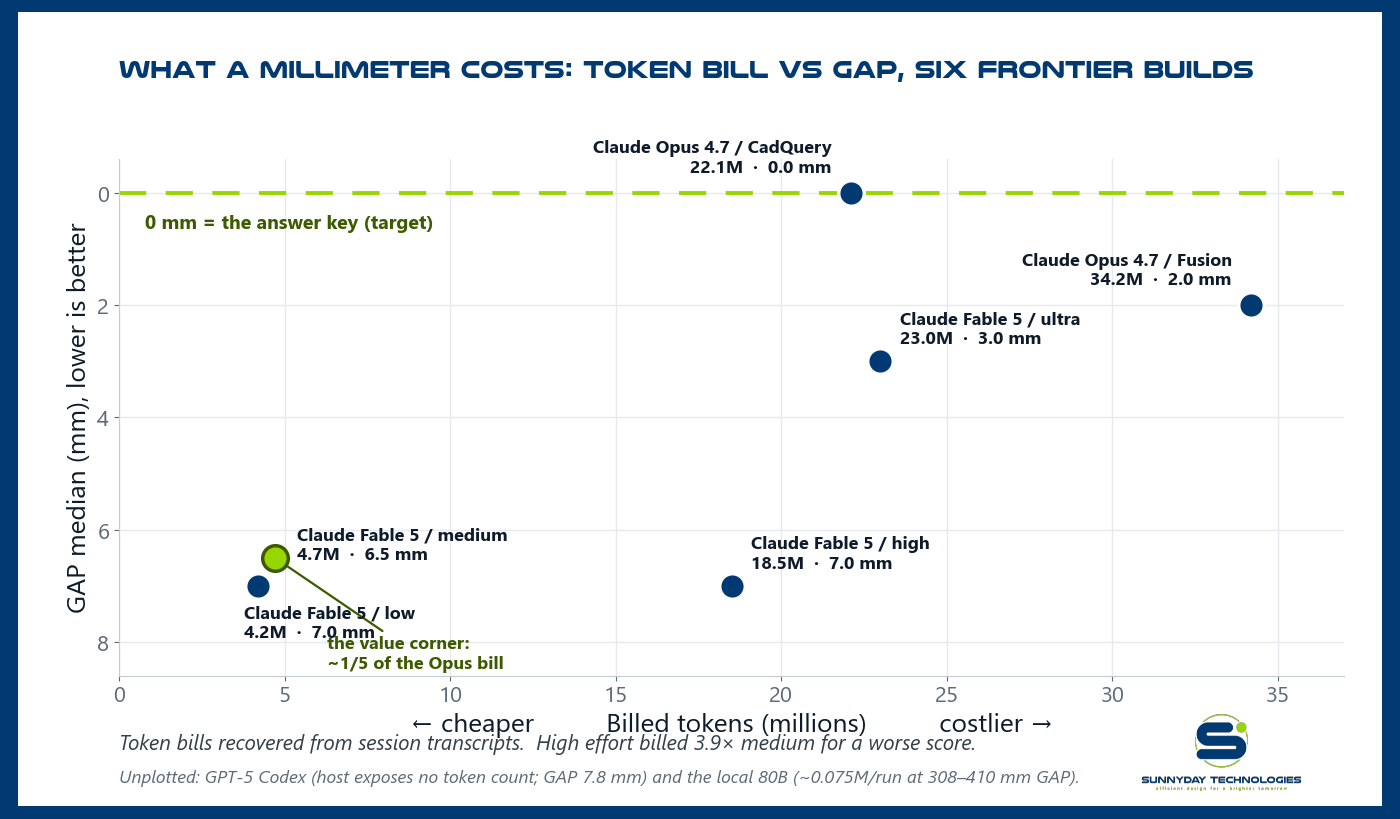
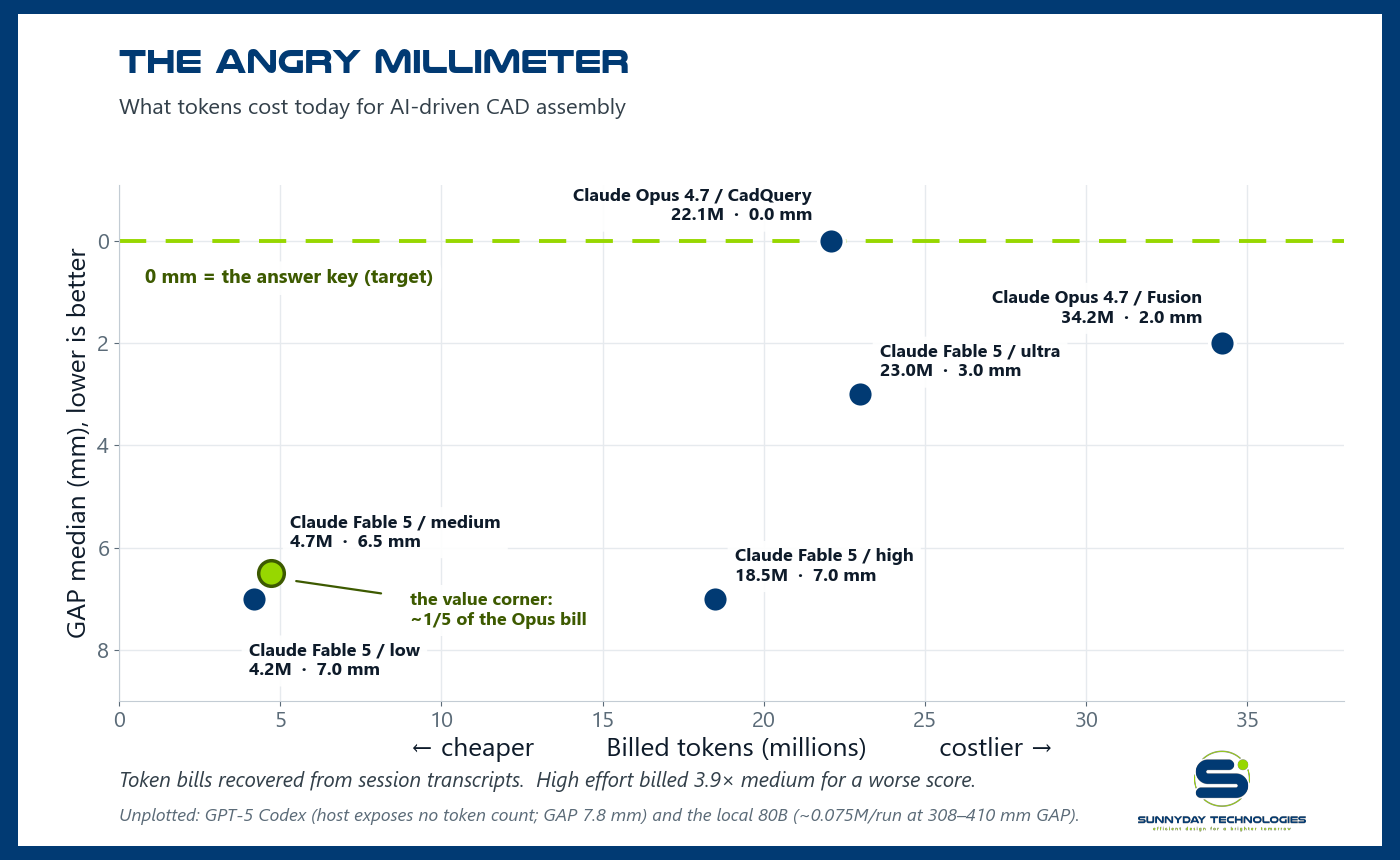
figures: The Angry Millimeter title + LABEL_BBOX legibility standard
brand_figs gains LABEL_BBOX: every in-chart label gets a padded white
backing box so text never collides with gridlines, target lines, or
neighboring marks. Applied to the token-efficiency hero (retitled 'The
Angry Millimeter — what tokens cost today for AI-driven CAD assembly')
and the 7-build scatter; label nudges so nothing clips at the axes.

diff --git a/grader/build_marb_token_efficiency.py b/grader/build_marb_token_efficiency.py
@@ -12,7 +12,7 @@ from matplotlib.patches import Rectangle as _Rect
 
 REPO = Path(__file__).resolve().parents[1]
 sys.path.insert(0, str(REPO / "grader"))
-from brand_figs import COLORS, NUL, SIZES, apply_base   # noqa: E402
+from brand_figs import COLORS, NUL, SIZES, LABEL_BBOX, apply_base   # noqa: E402
 
 OUT = Path(sys.argv[1]) if len(sys.argv) > 1 else \
     REPO / "results" / "figures" / "marb_token_efficiency.png"
@@ -23,23 +23,24 @@ RUNS = [
     (34.2, 2.0, "Claude Opus 4.7 / Fusion\n34.2M  ·  2.0 mm",     -14, 12,  "right"),
     (23.0, 3.0, "Claude Fable 5 / ultra\n23.0M  ·  3.0 mm",        14, 10,  "left"),
     (18.5, 7.0, "Claude Fable 5 / high\n18.5M  ·  7.0 mm",         14, 10,  "left"),
-    ( 4.7, 6.5, "Claude Fable 5 / medium\n4.7M  ·  6.5 mm",        16, -4,  "left"),
-    ( 4.2, 7.0, "Claude Fable 5 / low\n4.2M  ·  7.0 mm",          -10, -40, "left"),
+    ( 4.7, 6.5, "Claude Fable 5 / medium\n4.7M  ·  6.5 mm",        14, 16,  "left"),
+    ( 4.2, 7.0, "Claude Fable 5 / low\n4.2M  ·  7.0 mm",           -4, -58, "left"),
 ]
 HIGHLIGHT = "medium"   # the value corner gets the green marker
 
 apply_base()
-W, H = 1400, 820
+W, H = 1400, 860
 fig = plt.figure(figsize=(W/100, H/100), dpi=100)
 fig.patch.set_facecolor(COLORS["navy"])                       # navy edge band
 fig.add_artist(_Rect((0.013, 0.016), 0.974, 0.968, transform=fig.transFigure,
                      facecolor=COLORS["white"], zorder=0))    # white interior
-ax = fig.add_axes([0.085, 0.175, 0.875, 0.63]); ax.set_facecolor(COLORS["white"])
+ax = fig.add_axes([0.085, 0.185, 0.875, 0.60]); ax.set_facecolor(COLORS["white"])
 
 # target line at 0 mm (the answer key)
 ax.axhline(0, ls=(0, (7, 5)), color=COLORS["green"], lw=2.8, zorder=1)
-ax.text(0.8, 0.38, "0 mm = the answer key (target)",
-        color="#3d5a00", fontsize=14, ha="left", va="top", weight="bold")
+ax.text(0.8, 0.55, "0 mm = the answer key (target)",
+        color="#3d5a00", fontsize=14, ha="left", va="top", weight="bold",
+        bbox=LABEL_BBOX, zorder=6)
 
 for tokens, gap, label, dx, dy, ha in RUNS:
     is_best = "medium" in label
@@ -48,15 +49,17 @@ for tokens, gap, label, dx, dy, ha in RUNS:
     ax.scatter([tokens], [gap], s=340, color=c, edgecolor=edge, linewidth=2.5, zorder=4)
     ax.annotate(label, (tokens, gap), textcoords="offset points",
                 xytext=(dx, dy), ha=ha, fontsize=13, color=COLORS["ink"],
-                weight="bold", va="bottom", zorder=5)
+                weight="bold", va="bottom", zorder=5, bbox=LABEL_BBOX)
 
 # the value corner cue
-ax.annotate("the value corner:\n~1/5 of the Opus bill", (4.7, 6.5),
-            textcoords="offset points", xytext=(38, -56), fontsize=13,
+ax.annotate("the value corner:\n~1/5 of the Opus bill", (4.9, 6.6),
+            textcoords="offset points", xytext=(96, -10), fontsize=13,
             color="#3d5a00", weight="bold", ha="left", va="top",
-            arrowprops=dict(arrowstyle="-", color="#3d5a00", lw=1.6))
+            bbox=LABEL_BBOX, zorder=6,
+            arrowprops=dict(arrowstyle="-", color="#3d5a00", lw=1.6,
+                            shrinkA=16, shrinkB=14))
 
-ax.set_xlim(0, 37); ax.set_ylim(-0.6, 8.6)
+ax.set_xlim(0, 38); ax.set_ylim(-1.1, 9.0)
 ax.invert_yaxis()                                  # lower GAP is better -> top
 ax.set_xlabel("← cheaper          Billed tokens (millions)          costlier →",
               fontsize=SIZES["axis"], color=COLORS["ink"])
@@ -66,8 +69,9 @@ for s in ("top", "right"): ax.spines[s].set_visible(False)
 for s in ("left", "bottom"): ax.spines[s].set_color("#c3ccd4")
 ax.grid(True, color=COLORS["grid"], lw=1); ax.set_axisbelow(True)
 
-fig.text(0.085, 0.905, "What a millimeter costs: token bill vs GAP, six frontier builds",
-         fontproperties=NUL, fontsize=18, color=COLORS["navy"])
+fig.text(0.085, 0.915, "THE ANGRY MILLIMETER", fontproperties=NUL, fontsize=24, color=COLORS["navy"])
+fig.text(0.085, 0.868, "What tokens cost today for AI-driven CAD assembly",
+         fontsize=16, color=COLORS["ink_dim"])
 fig.text(0.085, 0.085,
          "Token bills recovered from session transcripts.  High effort billed 3.9× medium for a worse score.",
          fontsize=SIZES["note"], color=COLORS["ink_dim"], style="italic")

diff --git a/grader/build_marb_scatter.py b/grader/build_marb_scatter.py
@@ -10,7 +10,7 @@ import matplotlib.pyplot as plt
 
 REPO = Path(__file__).resolve().parents[1]
 sys.path.insert(0, str(REPO / "grader"))
-from brand_figs import COLORS, NUL, SIZES, apply_base   # noqa: E402
+from brand_figs import COLORS, NUL, SIZES, LABEL_BBOX, apply_base   # noqa: E402
 
 DATA = Path(sys.argv[1]) if len(sys.argv) > 1 else \
     REPO / "results" / "marb_v0_9_grades.json"
@@ -36,8 +36,9 @@ ax = fig.add_axes([0.10, 0.155, 0.855, 0.66]); ax.set_facecolor(COLORS["white"])
 
 # target line at 0 mm (the answer key)
 ax.axhline(0, ls=(0, (7, 5)), color=COLORS["green"], lw=2.8, zorder=1)
-ax.text(2.5, 0.18, "0 mm = the answer key (target)",
-        color="#3d5a00", fontsize=14, ha="left", va="bottom", weight="bold")
+ax.text(2.5, 0.45, "0 mm = the answer key (target)",
+        color="#3d5a00", fontsize=14, ha="left", va="top", weight="bold",
+        bbox=LABEL_BBOX, zorder=6)
 
 # gap value + spread per cell: `_agg` (stats schema) when present, else flat dot.
 def _gap(name):
@@ -82,7 +83,8 @@ for name, t in TIMES.items():
     ax.annotate(f"{disp}{tag}\n{g:.1f} mm{spread}  ·  {t:.0f} min",
                 (t, g), textcoords="offset points",
                 xytext=(dx, dy), ha=ha,
-                fontsize=13, color=COLORS["ink"], weight="bold", va="bottom")
+                fontsize=13, color=COLORS["ink"], weight="bold", va="bottom",
+                bbox=LABEL_BBOX, zorder=5)
 
 _gaps = [_gap(n)[0] for n in TIMES if n in runs] or [0]
 ax.set_xlim(0, 92); ax.set_ylim(-0.6, max(10, max(_gaps) + 1.5))

diff --git a/grader/brand_figs.py b/grader/brand_figs.py
@@ -41,6 +41,11 @@ BODY = "Segoe UI"
 # article readability — small charts were hard to read) ----------------------
 SIZES = dict(big=42, title=28, subtitle=18, axis=19, tick=16, label=17, note=15)
 
+# Padded white backing for in-chart text labels. ALWAYS put this behind point
+# labels/annotations so text never collides with gridlines, target lines, or
+# neighboring marks — every label gets its own legibility border.
+LABEL_BBOX = dict(boxstyle="round,pad=0.40", facecolor="white", edgecolor="none", alpha=0.92)
+
 def apply_base():
     """Set legible, brand-consistent matplotlib defaults. Call once per figure."""
     matplotlib.rcParams.update({